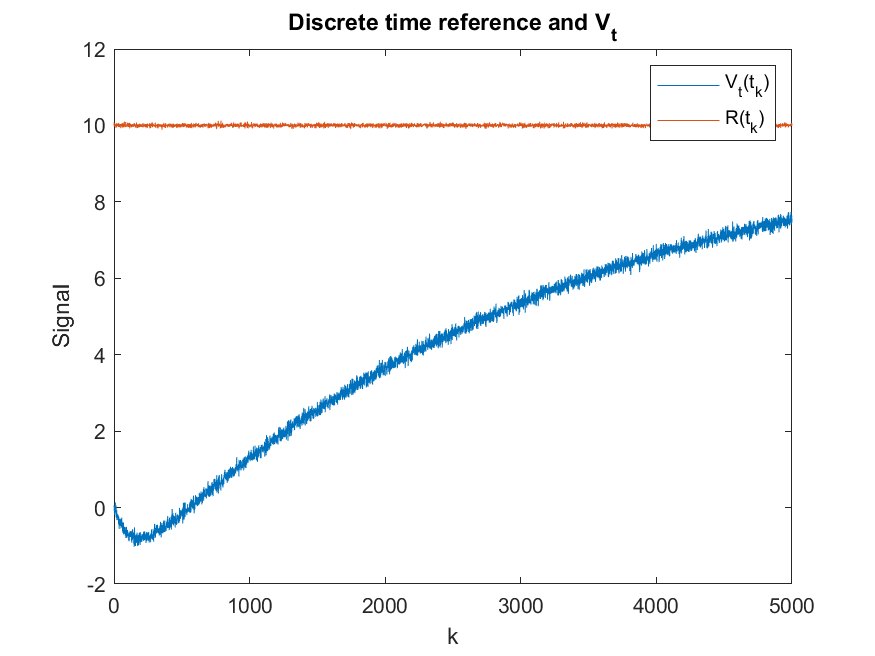
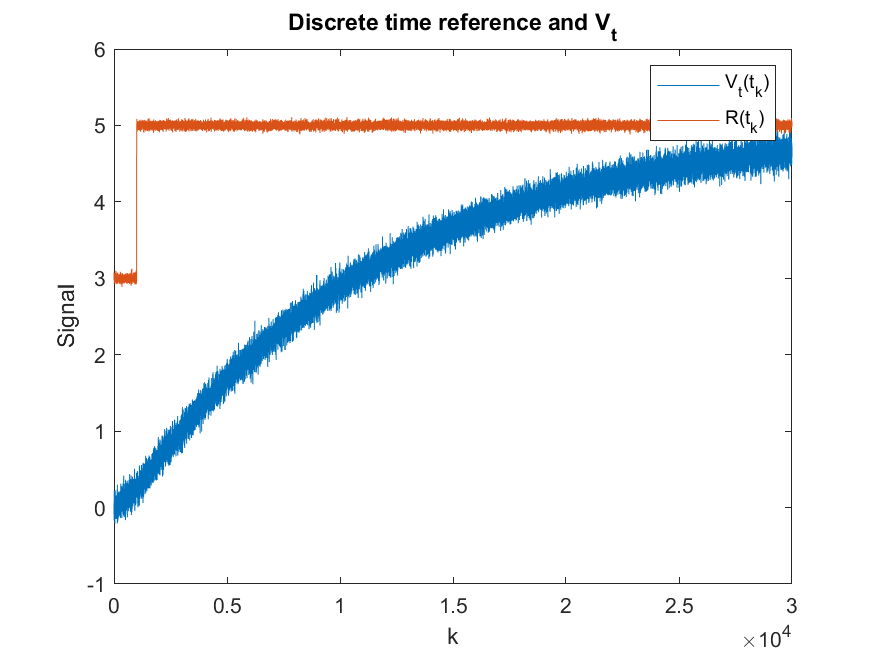
updates experimento-5

diff --git a/experimento-5/exp5_script.m b/experimento-5/exp5_script.m
@@ -3,10 +3,10 @@ clear all;
 close all;
 load('motor.mat');
 h = 1e-3;
-tempo_total = 5;
+tempo_total = 30;
 h_motor = h*1e-1;
 PO = 0.1;
-ts = 2;
+ts = 0.2;
 
 % Estimation of dynamic constants
 zeta = abs(log(PO))/(sqrt(pi^2+log(PO)^2));
@@ -17,8 +17,7 @@ K = 1.2;
 tau = 0.1077;
 
 % Noise
-noise_power = 0;
-noise_freq = h_motor;
+noise_power = 1e-6;
 
 % PI control parameters
 Kp = (2*zeta*wn*tau-1)/K;
@@ -26,9 +25,9 @@ Fi = (wn^2*tau)/(Kp*K);
 Ti = 1/Fi;
 
 % Reference
-R_steptime = 0;
-R_initialvalue = 5;
-R_finalvalue = 10;
+R_steptime = 1;
+R_initialvalue = 3;
+R_finalvalue = 5;
 
 % Initial variables
 x0 = [0;0];
